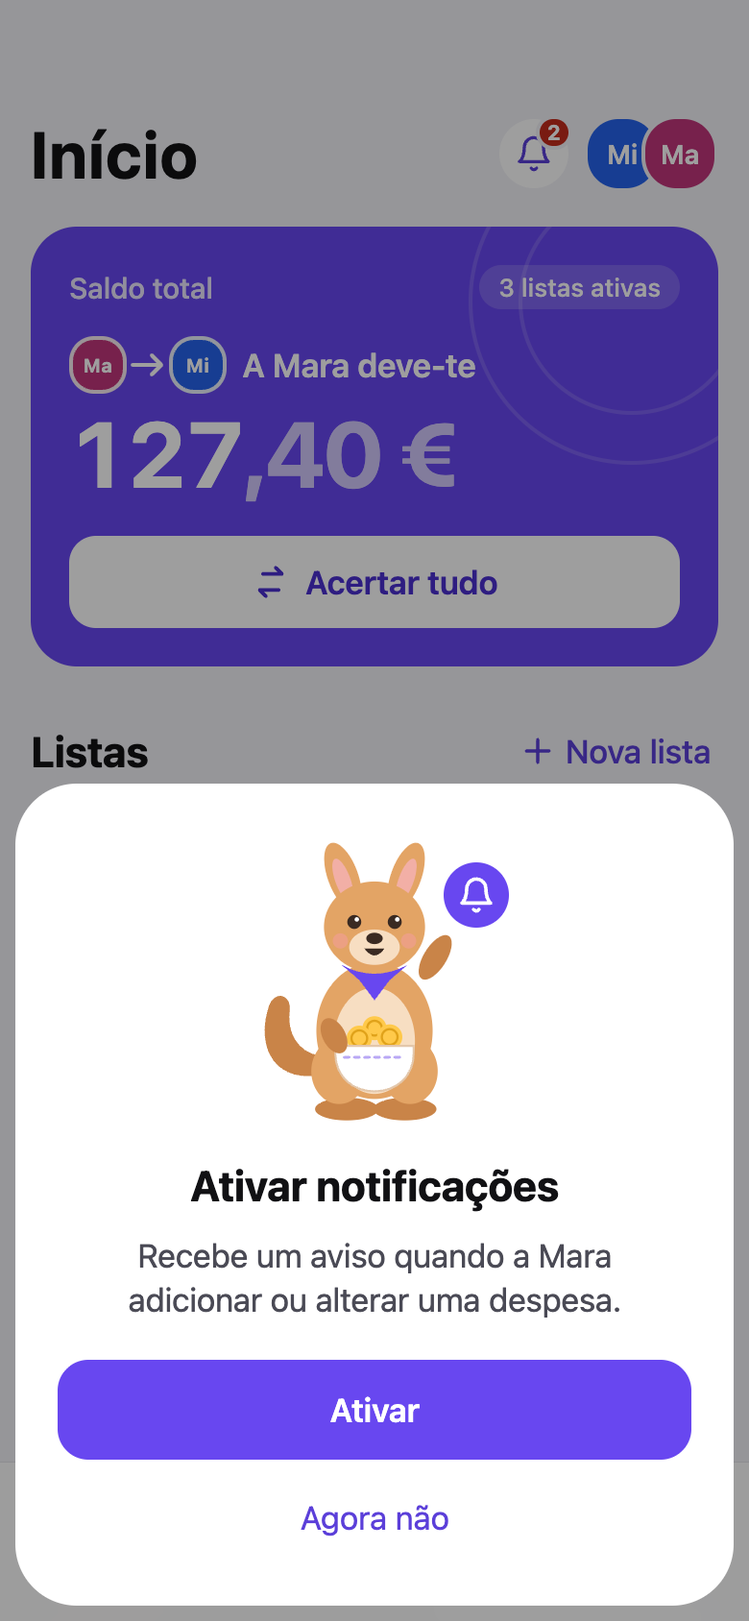
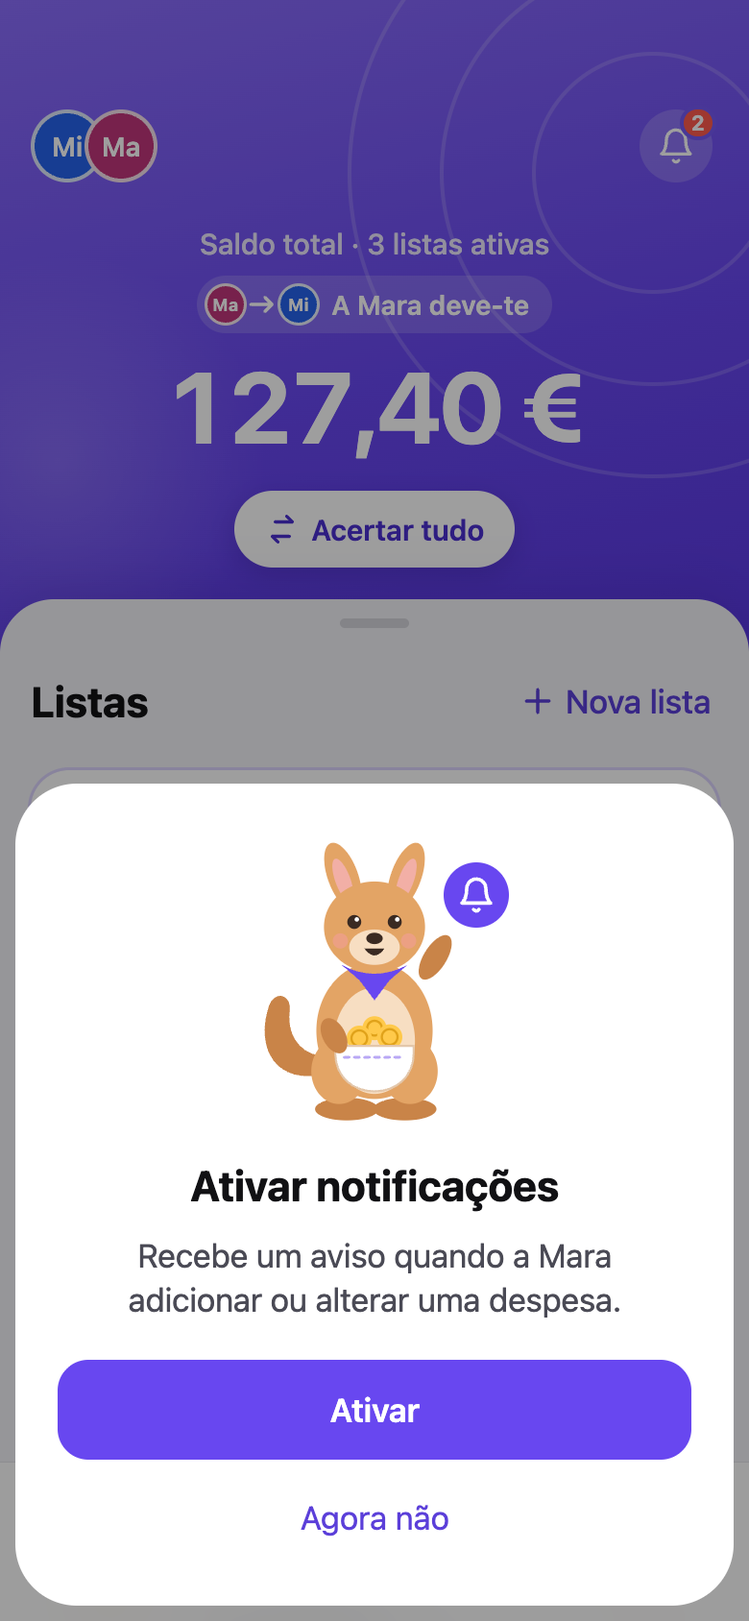
Update design: immersive Início header with parallax, single-colour amounts

Changed region(s): [[0.0, 0.0, 1.0, 0.4929], [0.7077, 0.2156, 0.7692, 0.2773]]

diff --git a/design/screens/Main.dc.html b/design/screens/Main.dc.html
@@ -14,74 +14,68 @@ body{margin:0}
 </helmet>
 <div style="width: 390px; height: 844px; position: relative; overflow: hidden; background: {{c.bg}}; color: {{c.text}}; font-family: -apple-system, BlinkMacSystemFont, 'SF Pro Text', 'Helvetica Neue', sans-serif">
 
-  <div style="position: absolute; inset: 0; overflow-y: auto; scrollbar-width: none; padding: 54px 16px 120px; box-sizing: border-box; display: flex; flex-direction: column; gap: 16px">
+  <div style="position: absolute; left: 0; right: 0; top: 0; height: 380px; transform: {{headShift}}; background: {{c.heroGrad}}; color: #FFFFFF; overflow: hidden">
+    <svg width="320" height="320" viewBox="0 0 320 320" aria-hidden="true" style="position: absolute; right: -110px; top: -70px; opacity: 0.16"><circle cx="160" cy="160" r="158" fill="none" stroke="#FFFFFF" stroke-width="2"></circle><circle cx="160" cy="160" r="110" fill="none" stroke="#FFFFFF" stroke-width="2"></circle><circle cx="160" cy="160" r="62" fill="none" stroke="#FFFFFF" stroke-width="2"></circle></svg>
+    <div aria-hidden="true" style="position: absolute; left: -80px; bottom: 30px; width: 220px; height: 220px; border-radius: 110px; background: radial-gradient(circle, rgba(255,255,255,0.18), rgba(255,255,255,0) 70%)"></div>
 
-    <sc-if value="{{offline}}" hint-placeholder-val="{{ false }}">
-      <div role="status" style="display: flex; align-items: center; gap: 10px; padding: 6px 14px 6px 8px; border-radius: 14px; background: {{c.warnSoft}}; color: {{c.warnText}}; font-size: 15px; font-weight: 500">
-        <span aria-hidden="true" style="width: 40px; height: 40px; border-radius: 20px; background: #FFFFFF; overflow: hidden; display: flex; align-items: flex-end; justify-content: center; flex: none">
-          <dc-import name="Guru" pose="dormir" crop="{{ true }}" size="{{ 36 }}" hint-size="36px,39px"></dc-import>
-        </span>
-        <span>Sem ligação. Só podes consultar.</span>
+    <div style="position: absolute; left: 16px; right: 16px; top: 54px; height: 44px; display: flex; align-items: center; justify-content: space-between; opacity: {{heroOp}}">
+      <div style="display: flex; align-items: center" aria-label="Miguel e Mara">
+        <span style="width: 38px; height: 38px; border-radius: 19px; background: #2563EB; color: #FFFFFF; display: flex; align-items: center; justify-content: center; font-size: 14px; font-weight: 600; border: 2px solid rgba(255,255,255,0.85); box-sizing: border-box">Mi</span>
+        <span style="width: 38px; height: 38px; border-radius: 19px; background: #C0367A; color: #FFFFFF; display: flex; align-items: center; justify-content: center; font-size: 14px; font-weight: 600; border: 2px solid rgba(255,255,255,0.85); box-sizing: border-box; margin-left: -10px">Ma</span>
       </div>
-    </sc-if>
-
-    <div style="display: flex; align-items: center; justify-content: space-between; height: 52px; margin-top: 4px">
-      <h1 style="margin: 0; font-size: 34px; line-height: 41px; font-weight: 700; letter-spacing: 0.4px">Início</h1>
-      <div style="display: flex; align-items: center; gap: 4px">
-      <a href="Atividade.dc.html" aria-label="Atividade, 2 novidades" style="position: relative; width: 44px; height: 44px; display: flex; align-items: center; justify-content: center">
-        <span style="width: 36px; height: 36px; border-radius: 18px; background: {{c.card}}; color: {{c.link}}; display: flex; align-items: center; justify-content: center">
+      <a href="Atividade.dc.html" aria-label="Atividade, 2 novidades" style="position: relative; width: 44px; height: 44px; display: flex; align-items: center; justify-content: center; color: #FFFFFF">
+        <span style="width: 38px; height: 38px; border-radius: 19px; background: rgba(255,255,255,0.18); display: flex; align-items: center; justify-content: center">
           <svg width="20" height="20" viewBox="0 0 24 24" fill="none" stroke="currentColor" stroke-width="2" stroke-linecap="round" stroke-linejoin="round" aria-hidden="true"><path d="M6 8a6 6 0 0 1 12 0c0 7 3 9 3 9H3s3-2 3-9M10.3 21a1.94 1.94 0 0 0 3.4 0"></path></svg>
         </span>
-        <span aria-hidden="true" style="position: absolute; right: 2px; top: 2px; min-width: 18px; height: 18px; padding: 0 4px; box-sizing: border-box; border-radius: 9px; background: #C42B1C; color: #FFFFFF; font-size: 11px; font-weight: 700; display: flex; align-items: center; justify-content: center; border: 2px solid {{c.bg}}">2</span>
+        <span aria-hidden="true" style="position: absolute; right: 1px; top: 1px; min-width: 18px; height: 18px; padding: 0 4px; box-sizing: border-box; border-radius: 9px; background: #FF5A4E; color: #FFFFFF; font-size: 11px; font-weight: 700; display: flex; align-items: center; justify-content: center; border: 2px solid {{c.badgeRing}}">2</span>
       </a>
-      <div style="display: flex; align-items: center" aria-label="Miguel e Mara">
-        <span style="width: 36px; height: 36px; border-radius: 18px; background: #2563EB; color: #FFFFFF; display: flex; align-items: center; justify-content: center; font-size: 14px; font-weight: 600; border: 2px solid {{c.bg}}">Mi</span>
-        <span style="width: 36px; height: 36px; border-radius: 18px; background: #C0367A; color: #FFFFFF; display: flex; align-items: center; justify-content: center; font-size: 14px; font-weight: 600; border: 2px solid {{c.bg}}; margin-left: -10px">Ma</span>
-      </div>
-      </div>
     </div>
 
-    <section aria-label="Saldo total" style="border-radius: 24px; background: {{c.hero}}; color: #FFFFFF; padding: 20px; display: flex; flex-direction: column; gap: 14px; position: relative; overflow: hidden; flex: none">
-      <svg width="170" height="170" viewBox="0 0 170 170" aria-hidden="true" style="position: absolute; right: -40px; top: -46px; opacity: 0.14"><circle cx="85" cy="85" r="84" fill="none" stroke="#FFFFFF" stroke-width="2"></circle><circle cx="85" cy="85" r="58" fill="none" stroke="#FFFFFF" stroke-width="2"></circle></svg>
-      <div style="display: flex; align-items: center; justify-content: space-between">
-        <span style="font-size: 15px; font-weight: 500; color: rgba(255,255,255,0.86)">Saldo total</span>
-        <span style="font-size: 13px; font-weight: 500; padding: 4px 10px; border-radius: 999px; background: rgba(255,255,255,0.16)">3 listas ativas</span>
-      </div>
+    <section aria-label="Saldo total" style="position: absolute; left: 16px; right: 16px; top: 118px; display: flex; flex-direction: column; align-items: center; gap: 8px; text-align: center; opacity: {{heroOp}}; transform: {{heroT}}; transform-origin: 50% 0">
+      <span style="font-size: 15px; font-weight: 500; color: rgba(255,255,255,0.86)">Saldo total · 3 listas ativas</span>
       <sc-if value="{{loading}}" hint-placeholder-val="{{ false }}">
-        <div style="display: flex; flex-direction: column; gap: 10px; padding: 4px 0 6px">
-          <div style="width: 150px; height: 16px; border-radius: 8px; background: rgba(255,255,255,0.22)"></div>
-          <div style="width: 200px; height: 40px; border-radius: 12px; background: rgba(255,255,255,0.22)"></div>
+        <div style="display: flex; flex-direction: column; align-items: center; gap: 12px; padding: 4px 0 6px">
+          <div style="width: 150px; height: 26px; border-radius: 13px; background: rgba(255,255,255,0.22)"></div>
+          <div style="width: 210px; height: 48px; border-radius: 14px; background: rgba(255,255,255,0.22)"></div>
         </div>
       </sc-if>
       <sc-if value="{{notLoading}}" hint-placeholder-val="{{ true }}">
-        <div style="display: flex; flex-direction: column; gap: 2px">
-          <div style="display: flex; align-items: center; gap: 8px; font-size: 17px; font-weight: 600">
-            <span style="display: flex; align-items: center; gap: 0">
-              <span style="width: 26px; height: 26px; border-radius: 13px; background: #C0367A; border: 2px solid rgba(255,255,255,0.9); display: flex; align-items: center; justify-content: center; font-size: 10px; font-weight: 700">Ma</span>
-              <svg width="22" height="16" viewBox="0 0 22 16" fill="none" stroke="#FFFFFF" stroke-width="2" stroke-linecap="round" stroke-linejoin="round" aria-hidden="true"><path d="M3 8h15M13 3l5 5-5 5"></path></svg>
-              <span style="width: 26px; height: 26px; border-radius: 13px; background: #2563EB; border: 2px solid rgba(255,255,255,0.9); display: flex; align-items: center; justify-content: center; font-size: 10px; font-weight: 700">Mi</span>
-            </span>
-            <span>A Mara deve-te</span>
-          </div>
-          <div style="font-size: 48px; line-height: 58px; font-weight: 700; letter-spacing: -1px; font-variant-numeric: tabular-nums">127<span style="color: rgba(255,255,255,0.7)">,40 €</span></div>
+      <span style="height: 30px; padding: 0 12px 0 4px; border-radius: 15px; background: rgba(255,255,255,0.16); display: flex; align-items: center; gap: 6px; font-size: 14px; font-weight: 600">
+        <span style="display: flex; align-items: center">
+          <span style="width: 22px; height: 22px; border-radius: 11px; background: #C0367A; border: 1.5px solid rgba(255,255,255,0.9); box-sizing: border-box; font-size: 9px; font-weight: 700; display: flex; align-items: center; justify-content: center">Ma</span>
+          <svg width="16" height="12" viewBox="0 0 22 16" fill="none" stroke="#FFFFFF" stroke-width="2.4" stroke-linecap="round" stroke-linejoin="round" aria-hidden="true"><path d="M3 8h15M13 3l5 5-5 5"></path></svg>
+          <span style="width: 22px; height: 22px; border-radius: 11px; background: #2563EB; border: 1.5px solid rgba(255,255,255,0.9); box-sizing: border-box; font-size: 9px; font-weight: 700; display: flex; align-items: center; justify-content: center">Mi</span>
+        </span>
+        A Mara deve-te
+      </span>
+      <div style="font-size: 52px; line-height: 60px; font-weight: 700; letter-spacing: -1.2px; font-variant-numeric: tabular-nums">127,40 €</div>
+      </sc-if>
+      <button type="button" disabled="{{offline}}" style="margin-top: 6px; height: 40px; padding: 0 16px; border: 0; border-radius: 20px; background: #FFFFFF; color: {{c.heroBtnText}}; font: inherit; font-size: 15px; font-weight: 600; display: flex; align-items: center; gap: 6px; cursor: pointer; box-shadow: {{c.btnShadow}}">
+        <svg width="18" height="18" viewBox="0 0 24 24" fill="none" stroke="currentColor" stroke-width="2.2" stroke-linecap="round" stroke-linejoin="round" aria-hidden="true"><path d="M7 7h12l-4-4M17 17H5l4 4"></path></svg>
+        Acertar tudo
+      </button>
+    </section>
+  </div>
+
+  <div onScroll="{{onScroll}}" style="position: absolute; inset: 0; overflow-y: auto; scrollbar-width: none">
+    <div aria-hidden="true" style="height: {{spacerH}}; pointer-events: none"></div>
+    <div style="min-height: 760px; border-radius: 28px 28px 0 0; background: {{c.bg}}; box-shadow: {{c.sheetShadow}}; padding: 18px 16px 120px; box-sizing: border-box; display: flex; flex-direction: column; gap: 14px">
+      <div aria-hidden="true" style="width: 36px; height: 5px; border-radius: 3px; background: {{c.handle}}; margin: -8px auto 0; flex: none"></div>
+      <sc-if value="{{offline}}" hint-placeholder-val="{{ false }}">
+        <div role="status" style="display: flex; align-items: center; gap: 10px; padding: 6px 14px 6px 8px; border-radius: 14px; background: {{c.warnSoft}}; color: {{c.warnText}}; font-size: 15px; font-weight: 500">
+          <span aria-hidden="true" style="width: 40px; height: 40px; border-radius: 20px; background: #FFFFFF; overflow: hidden; display: flex; align-items: flex-end; justify-content: center; flex: none">
+            <dc-import name="Guru" pose="dormir" crop="{{ true }}" size="{{ 36 }}" hint-size="36px,39px"></dc-import>
+          </span>
+          <span>Sem ligação. Só podes consultar.</span>
         </div>
       </sc-if>
-      <div style="display: flex; gap: 10px">
-        <button type="button" disabled="{{offline}}" style="flex: 1; height: 48px; border: 0; border-radius: 14px; background: {{c.heroBtn}}; color: {{c.heroBtnText}}; font: inherit; font-size: 17px; font-weight: 600; display: flex; align-items: center; justify-content: center; gap: 8px; cursor: pointer">
-          <svg width="20" height="20" viewBox="0 0 24 24" fill="none" stroke="currentColor" stroke-width="2.2" stroke-linecap="round" stroke-linejoin="round" aria-hidden="true"><path d="M7 7h12l-4-4M17 17H5l4 4"></path></svg>
-          Acertar tudo
-        </button>
-      </div>
-    </section>
-
-    <div style="display: flex; align-items: center; justify-content: space-between; margin-top: 6px">
+    <div style="display: flex; align-items: center; justify-content: space-between; margin-top: 2px">
       <h2 style="margin: 0; font-size: 22px; font-weight: 700">Listas</h2>
       <button type="button" disabled="{{offline}}" style="height: 44px; padding: 0 4px 0 12px; border: 0; background: transparent; color: {{c.link}}; font: inherit; font-size: 17px; font-weight: 500; display: flex; align-items: center; gap: 4px; cursor: pointer">
         <svg width="20" height="20" viewBox="0 0 24 24" fill="none" stroke="currentColor" stroke-width="2.2" stroke-linecap="round" aria-hidden="true"><path d="M12 5v14M5 12h14"></path></svg>
         Nova lista
       </button>
     </div>
-
     <sc-if value="{{loading}}" hint-placeholder-val="{{ false }}">
       <div style="display: flex; flex-direction: column; gap: 12px">
         <sc-for list="{{skeletons}}" as="s" hint-placeholder-count="3">
@@ -96,7 +90,6 @@ body{margin:0}
         </sc-for>
       </div>
     </sc-if>
-
     <sc-if value="{{notLoading}}" hint-placeholder-val="{{ true }}">
       <div style="display: flex; flex-direction: column; gap: 12px; flex: none">
         <div style="border-radius: 20px; background: {{c.card}}; box-shadow: {{c.shadow}}; outline: 1.5px solid {{c.mainRing}}; overflow: hidden">
@@ -161,6 +154,7 @@ body{margin:0}
         </a>
       </div>
     </sc-if>
+    </div>
   </div>
 
   <div style="position: absolute; left: 0; bottom: 0; width: 390px; height: 100px">
@@ -168,9 +162,25 @@ body{margin:0}
   </div>
 </div>
 </x-dc>
-<script type="text/x-dc" data-dc-script data-props='{"dark":{"editor":"boolean","default":false},"offline":{"editor":"boolean","default":false},"loading":{"editor":"boolean","default":false},"$preview":{"width":390,"height":844}}'>
+<script type="text/x-dc" data-dc-script data-props='{"dark":{"editor":"boolean","default":false},"offline":{"editor":"boolean","default":false},"loading":{"editor":"boolean","default":false},"scroll":{"editor":"int","default":0,"min":0,"max":600},"$preview":{"width":390,"height":844}}'>
 class Component extends DCLogic {
+  constructor(props) {
+    super(props);
+    this.state = {};
+  }
   renderVals() {
+    const base = Number(this.props.scroll ?? 0);
+    const y = base + (this.state.y ?? 0);
+    const clamp = (v, a, b) => Math.max(a, Math.min(b, v));
+    const HEAD = 312;
+    const fade = clamp(1 - y / 220, 0, 1);
+    const px = {
+      spacerH: (HEAD - base) + 'px',
+      headShift: 'translateY(' + (-y * 0.45).toFixed(1) + 'px)',
+      heroT: 'translateY(' + (y * 0.12).toFixed(1) + 'px) scale(' + (1 - clamp(y, 0, 240) / 1200).toFixed(3) + ')',
+      heroOp: fade.toFixed(2),
+      onScroll: (e) => this.setState({ y: e.target.scrollTop })
+    };
     const dark = !!this.props.dark;
     const offline = !!this.props.offline;
     const loading = !!this.props.loading;
@@ -178,12 +188,16 @@ class Component extends DCLogic {
       bg: '#000000', card: '#1C1C1E', text: '#F5F5F7', text2: '#A1A1AA', sep: '#38383A',
       link: '#A893FF', accentSoft: '#2A2342', hero: offline ? '#3A3A3D' : '#4A34B8', heroBtn: '#FFFFFF', heroBtnText: offline ? '#8E8E93' : '#3B2799',
       pos: '#3DD6A3', neg: '#FF9A5C', shadow: 'none', mainRing: '#3A2F66', skel: '#2C2C2E',
-      warnSoft: '#3A2A12', warnText: '#FFC46B'
+      warnSoft: '#3A2A12', warnText: '#FFC46B',
+      heroGrad: offline ? 'linear-gradient(165deg, #4A4A50 0%, #3A3A3D 100%)' : 'linear-gradient(165deg, #5B44C8 0%, #4A34B8 52%, #3A2799 100%)',
+      badgeRing: offline ? '#404045' : '#4E38BC', handle: '#3A3A3C', sheetShadow: '0 -8px 24px rgba(0,0,0,0.5)', btnShadow: 'none'
     } : {
       bg: '#F2F2F7', card: '#FFFFFF', text: '#111114', text2: '#6B6B76', sep: '#E6E6EC',
       link: '#5B3FD9', accentSoft: '#EFEAFE', hero: offline ? '#9C9CA6' : '#6847F0', heroBtn: '#FFFFFF', heroBtnText: offline ? '#9C9CA6' : '#4B2FD0',
       pos: '#0B7A5C', neg: '#B93D0B', shadow: '0 1px 2px rgba(17,17,20,0.04)', mainRing: '#DCD3FD', skel: '#ECECF1',
-      warnSoft: '#FFF1D6', warnText: '#7A4A00'
+      warnSoft: '#FFF1D6', warnText: '#7A4A00',
+      heroGrad: offline ? 'linear-gradient(165deg, #A8A8B2 0%, #8E8E98 100%)' : 'linear-gradient(165deg, #8A6DFB 0%, #6847F0 52%, #5534DD 100%)',
+      badgeRing: offline ? '#9A9AA4' : '#7558F4', handle: '#D5D5DC', sheetShadow: '0 -8px 24px rgba(40,20,120,0.12)', btnShadow: '0 4px 14px rgba(40,20,120,0.25)'
     };
     const up = 'M7 17 17 7M8 7h9v9';
     const down = 'M17 7 7 17M7 8v9h9';
@@ -198,6 +212,7 @@ class Component extends DCLogic {
       { icon: '💡', desc: 'Eletricidade', sub: '05 out · Pago por ti', amount: '61,20 €' }
     ];
     return {
+      ...px,
       c, dark, offline, loading, notLoading: !loading, lists, recent,
       skeletons: [{ w: '55%' }, { w: '70%' }, { w: '45%' }]
     };

diff --git a/design/screens/Componentes.dc.html b/design/screens/Componentes.dc.html
@@ -37,7 +37,7 @@ body{margin:0}
     <section style="display: flex; flex-direction: column; gap: 14px">
       <h2 style="margin: 0; font-size: 13px; font-weight: 700; text-transform: uppercase; letter-spacing: 0.8px; color: #6B6B76">Tipografia · SF Pro (-apple-system)</h2>
       <div style="display: flex; flex-direction: column; gap: 10px">
-        <div style="display: flex; align-items: baseline; justify-content: space-between; gap: 12px"><span style="font-size: 48px; font-weight: 700; letter-spacing: -1px; line-height: 1">127<span style="color: #8A8A94">,40 €</span></span><span style="font-size: 12px; color: #6B6B76">Número herói 48/58 bold</span></div>
+        <div style="display: flex; align-items: baseline; justify-content: space-between; gap: 12px"><span style="font-size: 48px; font-weight: 700; letter-spacing: -1px; line-height: 1">127,40 €</span><span style="font-size: 12px; color: #6B6B76">Número herói 48/58 bold</span></div>
         <div style="display: flex; align-items: baseline; justify-content: space-between"><span style="font-size: 34px; font-weight: 700">Início</span><span style="font-size: 12px; color: #6B6B76">Título grande 34/41 bold</span></div>
         <div style="display: flex; align-items: baseline; justify-content: space-between"><span style="font-size: 22px; font-weight: 700">Listas</span><span style="font-size: 12px; color: #6B6B76">Título 2 · 22/28 bold</span></div>
         <div style="display: flex; align-items: baseline; justify-content: space-between"><span style="font-size: 17px; font-weight: 600">Jantar no Ramiro</span><span style="font-size: 12px; color: #6B6B76">Destaque 17/22 semibold</span></div>

diff --git a/design/screens/EstatisticasCalendario.dc.html b/design/screens/EstatisticasCalendario.dc.html
@@ -37,7 +37,7 @@ body{margin:0}
       <div style="display: flex; align-items: flex-end; justify-content: space-between; gap: 12px">
         <div style="display: flex; flex-direction: column; gap: 2px">
           <span style="font-size: 15px; color: #6B6B76">Total do mês</span>
-          <span style="font-size: 34px; line-height: 40px; font-weight: 700; letter-spacing: -0.6px; font-variant-numeric: tabular-nums">1.451<span style="color: #8A8A94">,55 €</span></span>
+          <span style="font-size: 34px; line-height: 40px; font-weight: 700; letter-spacing: -0.6px; font-variant-numeric: tabular-nums">1.451,55 €</span>
           <span style="font-size: 13px; color: #6B6B76">+10,1 % do que em setembro</span>
         </div>
         <figure style="margin: 0; display: flex; flex-direction: column; gap: 4px" aria-label="Últimos 6 meses">

diff --git a/design/screens/Despesa.dc.html b/design/screens/Despesa.dc.html
@@ -31,7 +31,7 @@ body{margin:0}
           <div style="display: flex; align-items: baseline; gap: 2px; font-size: 44px; line-height: 52px; font-weight: 700; letter-spacing: -0.8px; font-variant-numeric: tabular-nums">
             <span id="valor">{{v.amountMain}}</span>
             <sc-if value="{{keypad}}" hint-placeholder-val="{{ false }}"><span aria-hidden="true" style="width: 2px; height: 40px; background: {{c.accent}}; align-self: center; margin: 0 2px"></span></sc-if>
-            <span style="color: {{c.text2}}; font-weight: 500">{{v.amountRest}}</span>
+            <span>{{v.amountRest}}</span>
           </div>
         </div>
         <div style="border-top: 0.5px solid {{c.sep}}; padding: 0 16px; height: 50px; display: flex; align-items: center">

diff --git a/design/screens/Acerto.dc.html b/design/screens/Acerto.dc.html
@@ -42,7 +42,7 @@ body{margin:0}
           <label for="valor-acerto" style="font-size: 13px; color: #6B6B76">{{amountLabel}}</label>
           <div style="display: flex; align-items: baseline; font-size: 44px; line-height: 52px; font-weight: 700; letter-spacing: -0.8px; font-variant-numeric: tabular-nums">
             <input id="valor-acerto" type="text" inputmode="decimal" value="{{amountMain}}" style="width: {{amountW}}; border: 0; outline: none; background: transparent; font: inherit; color: #111114; padding: 0">
-            <span style="color: #6B6B76; font-weight: 500">{{amountRest}}</span>
+            <span>{{amountRest}}</span>
           </div>
           <span style="font-size: 13px; color: #6B6B76">{{amountHint}}</span>
         </div>

diff --git a/design/screens/InicioScroll.dc.html b/design/screens/InicioScroll.dc.html
@@ -1,0 +1,25 @@
+<!doctype html>
+<html lang="pt-PT">
+<head>
+<meta charset="utf-8">
+<title>Início — a meio do deslize</title>
+<script src="./support.js"></script>
+</head>
+<body>
+<x-dc>
+<helmet>
+<style>
+body{margin:0}
+</style>
+</helmet>
+<div style="width: 390px; height: 844px">
+  <dc-import name="Main" scroll="{{ 170 }}" hint-size="390px,844px"></dc-import>
+</div>
+</x-dc>
+<script type="text/x-dc" data-dc-script data-props='{"$preview":{"width":390,"height":844}}'>
+class Component extends DCLogic {
+  renderVals() { return {}; }
+}
+</script>
+</body>
+</html>

diff --git a/design/README.md b/design/README.md
@@ -25,7 +25,7 @@ Several files are small wrappers that show a variant of a main file. The variant
 | Screen (brief §) | Main file | Variants |
 |---|---|---|
 | 1 Login | `Login.dc.html` | `LoginErro` (prop `error`) |
-| 2 Início | `Main.dc.html` | `InicioOffline` (`offline`), `InicioLoading` (`loading`), `InicioEscuro` (`dark`) |
+| 2 Início | `Main.dc.html` (immersive header with parallax; interactive, prop `scroll`) | `InicioScroll` (`scroll=170`, halfway through the parallax), `InicioOffline` (`offline`), `InicioLoading` (`loading`), `InicioEscuro` (`dark`) |
 | 3 List detail | `Lista.dc.html` (balance card has the "Despesas recorrentes" row) | `ListaVazia` (`variant="vazia"`), `ListaArquivada` (`variant="arquivada"`), `ListaEscuro` (`dark`) |
 | 4 Add / edit expense (sheet) | `Despesa.dc.html` | `DespesaTeclado` (on open, keypad + quick details card), `DespesaIgual`, `DespesaPercentagem`, `DespesaExatoErro` (validation error), `DespesaPartes`, `DespesaEditar` (`variant="editar"`), `DespesaRecorrente` (`variant="recorrente"`), `DespesaEscuro` (`dark`) |
 | 5 Settle up (sheet) | `Acerto.dc.html` | `AcertarTudo` (`variant="tudo"`), `AcertoSucesso` (`variant="sucesso"`) |
@@ -240,7 +240,7 @@ The balance card on `Lista` has a **"Despesas recorrentes"** row below the defau
 
 ## Scrolling screens
 
-`Main` and `Lista` scroll vertically under the tab bar. Cards in a scrolling column must not shrink (`flex: none` / `flex-shrink: 0`). If they can shrink, `overflow: hidden` cards collapse (the Saldo total card collapsed when the Casa card got taller).
+`Main` and `Lista` scroll vertically under the tab bar. Cards in a scrolling column must not shrink (`flex: none` / `flex-shrink: 0`). If they can shrink, `overflow: hidden` cards collapse (this happened to the old Saldo total card when the Casa card got taller).
 
 ## To implement — design changes of 17 Oct 2026
 
@@ -308,6 +308,46 @@ Mockup copy for 1.4.0 (you can use it as the first `highlights`):
 2. Make a `WhatsNewSheet` component that follows the mockup and the rules above.
 3. Show it from Início with the "last seen version" logic. Add tests for the version compare and for the first-use case.
 4. Add a changelog entry for this feature (see `CLAUDE.md`). That entry has no `highlights`, so the sheet does not show for it.
+
+## Início — immersive header with parallax
+
+Mockups: `Main` (top of the page; you can scroll it in Play mode), `InicioScroll` (halfway), `InicioEscuro`, `InicioOffline`, `InicioLoading`. This replaces the "Saldo total" card and the "Início" large title.
+
+**Structure** (from back to front):
+
+1. **Header layer** (fixed, behind everything). Full width, from the top edge of the screen, 380px high, background `linear-gradient(165deg, #8A6DFB 0%, #6847F0 52%, #5534DD 100%)`. Dark: `#5B44C8 → #4A34B8 → #3A2799`. Offline: grey `#A8A8B2 → #8E8E98` (dark `#4A4A50 → #3A3A3D`). Decoration: 3 thin white circles at 16% opacity at the top right, and a soft white glow at the bottom left.
+   - **Top row** at the safe-area top + 10px (54px in the mockup), 44px high: the Mi/Ma avatars (38px, 2px white 85% border) on the left, and the bell on the right (38px circle, white 18%, red badge with the count). There is no screen title.
+   - **Balance block**, centred, starts 64px under the top row, 8px gap:
+     - "Saldo total · 3 listas ativas" (15px, white 86%).
+     - **Direction pill**: 30px high, white 16%, with the Ma → Mi mini avatars (22px) and "A Mara deve-te" (14px semibold).
+     - **Amount**: 52px / 60px bold, letter-spacing −1.2px, tabular numbers, **all in solid white (the decimals too)**.
+     - **"Acertar tudo"**: white pill button, 40px high, accent text `#4B2FD0`, swap icon, soft shadow. Disabled when offline.
+2. **Scroll container** (the whole screen). It starts with a transparent spacer of **312px**, so the header shows through. Then comes the **content sheet**: background `bg` (`#F2F2F7` / dark `#000`), top corners 28px, shadow `0 -8px 24px rgba(40,20,120,0.12)`, a 36×5px grabber, padding 18px 16px, and the bottom padding of the tab bar. The sheet has the offline banner (when offline), the "Listas" header, the Casa card with "Últimas despesas", the other lists and "Listas arquivadas", as before.
+3. **Tab bar** on top, as before.
+
+**Parallax** (`y` = scroll offset in px):
+
+- Header layer: `translateY(-0.45 × y)`, so it moves at about half the speed of the sheet.
+- Balance block: extra `translateY(0.12 × y)` and `scale(1 − min(y, 240) / 1200)`, from the top centre.
+- Top row and balance block: `opacity = clamp(1 − y / 220, 0, 1)`.
+- There is **no compact header**. When the sheet reaches the top, it continues up under the status bar. Put a thin translucent band (`backdrop-filter: blur`) behind the status bar (height = `env(safe-area-inset-top)`), so the clock stays easy to read over the content.
+- Use one passive scroll listener and `requestAnimationFrame`, and change only `transform` and `opacity` (no layout changes). If the user turns on `prefers-reduced-motion`, do not use the parallax: the header scrolls with the content.
+- **Touch on the header:** a swipe that starts on the purple area must scroll the page. Do not put the header in a separate scroll area. For example, put the header inside the scroll container with `position: sticky; top: 0` and `z-index` under the sheet, or let touch events go through the spacer. The buttons in the header (bell, "Acertar tudo") must still work.
+- **Overscroll at the top (iOS bounce):** extend the gradient upwards, so no white gap shows.
+
+**Loading:** in the header, show 2 white 22% skeleton bars (150×26 and 210×48) in place of the pill and the amount. In the sheet, show the existing list skeletons.
+
+## Amounts — no lighter decimals
+
+Show every amount in one colour. Do not show the decimals ("…,40 €") in a lighter colour or a lighter weight. This applies to the Início header, the "Total do mês" card in Estatísticas, the amount field in Acertar contas and the amount on the new-expense sheet.
+
+### To implement — immersive header and amounts
+
+1. Replace the Saldo total card and the "Início" title in `web/src/screens/Home.tsx` with the header layer, the 312px spacer and the content sheet described above. Keep all the data and actions of the old card.
+2. Add the parallax with the rules above (passive listener, transform and opacity only, reduced motion, touch on the header, overscroll, status-bar band).
+3. Support the dark, offline and loading states (see the mockups).
+4. Remove the lighter decimals everywhere (search for `text-white/70` on the amount `rest` and similar classes in Stats, the settle sheet and the expense sheet).
+5. Add a changelog entry (see `CLAUDE.md`). Think about `highlights` for the what's-new sheet, because this is a visible change.
 
 ## Not shown in the mockups
 
